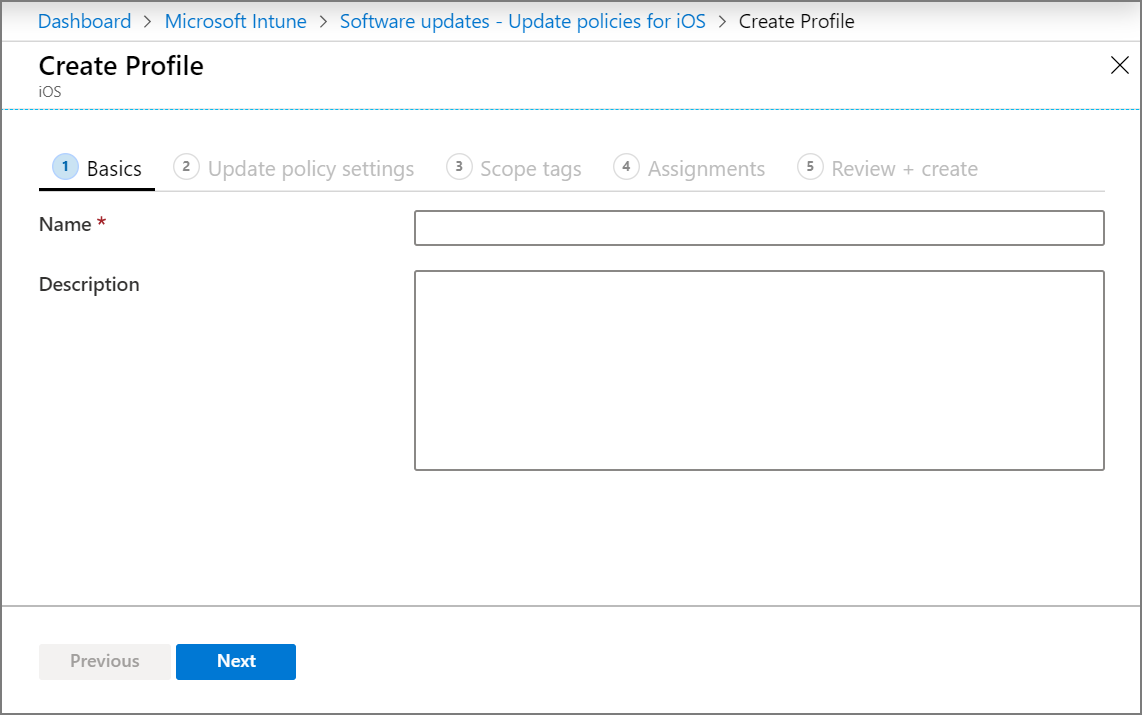
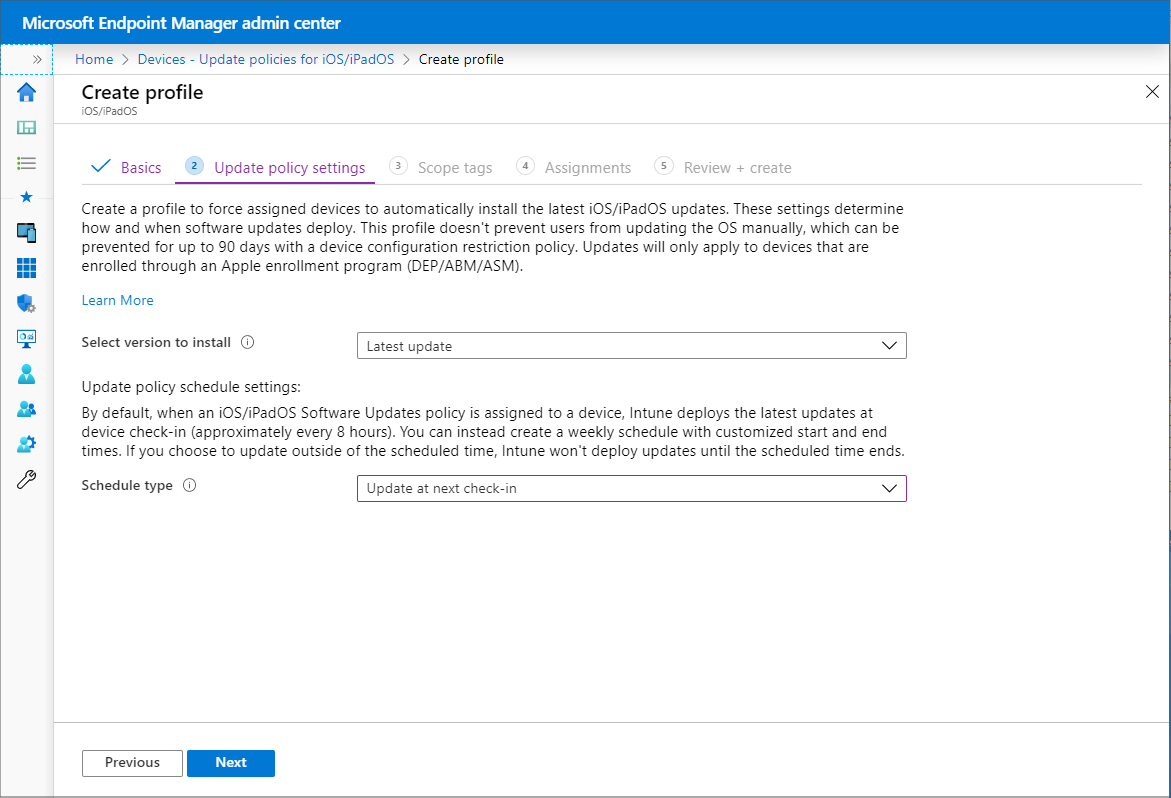
Content for 2002 iOS software updates

diff --git a/intune/protect/software-updates-ios.md b/intune/protect/software-updates-ios.md
@@ -7,7 +7,7 @@ keywords:
 author: brenduns 
 ms.author: brenduns
 manager: dougeby
-ms.date: 12/18/2019
+ms.date: 02/20/2020
 ms.topic: conceptual
 ms.service: microsoft-intune
 ms.subservice: protect
@@ -29,74 +29,91 @@ ms.collection: M365-identity-device-management
 
 # Add iOS/iPadOS software update policies in Intune
 
-Software update policies let you force supervised iOS/iPadOS devices to automatically install the latest available OS update. When configuring a policy, you can add the days and times when you don't want devices to install an update.
+Software update policies let you force supervised iOS/iPadOS devices to automatically install OS updates. Supervised devices are those that enrolled using either Apple Business Manager or Apple School Manager. When configuring a policy to deploy updates, you can:
+
+- Choose to deploy the *latest update* that’s available, or choose to deploy a an older update by the update version number if you don't want to deploy the latest update. If you choose to deploy an older update, you must also set a Device Configuration policy to restrict visibility of software updates.
+- Specify a schedule that determines when the update installs. Schedules can be as simple as installing updates the next time that the device checks in, or creating date and time ranges during which updates can install or are blocked from installing.
 
 This feature applies to:
 
 - iOS 10.3 and later (supervised)
 
-The device checks in with Intune about every 8 hours. If an update is available, the device downloads and  installs it, except during restricted times. Although the update process does not typically involve any user interaction, if the device has a passcode the user will be required to enter it in order to start a software update. This applies to iOS 10.3 and later versions. 
-The policy doesn't prevent a user from updating the OS manually.
+By default, devices check in with Intune about every 8 hours. If an update is available through an update policy, the device downloads the update. The device then installs the update upon next check in within your schedule configuration. Although the update process does not typically involve any user interaction, if the device has a passcode the user must enter it in order to start a software update. Profiles don't prevent users from updating the OS manually. Users can be prevented from updating the OS manually with a Device Configuration policy to restrict visibility of software updates.
 
 ## Configure the policy
 
 1. Sign in to the [Microsoft Endpoint Manager admin center](https://go.microsoft.com/fwlink/?linkid=2109431).
-2. Select **Devices** > **Update policies for iOS** > **Create**.
+2. Select **Devices** > **Update policies for iOS/iPadOS** > **Create profile**.
 3. On the **Basics** tab, specify a name for this policy, specify a description (optional), and then select **Next**.
 
-   ![Basics tab](./media/software-updates-ios/basics-tab.png) 
+   ![Basics tab](./media/software-updates-ios/basics-tab.png)
 
-4. On the **Update policy settings** tab, specify a restricted time frame when updates aren't forcibly installed.  
-   - Overnight blocks aren't supported and might not function. For example, don't configure a policy with a *Start time* of 8 PM and an *End time* of 6 AM.
-   - A policy that starts at 12 AM and ends at 12 AM is evaluated as 0 hours and not 24 hours. This configuration results in no restriction.
+4. On the **Update policy settings** tab, configure the following:
 
-   When setting the restricted timeframe, enter the following details:
+   1. **Select version to install**. You can choose from:
 
-   - **Days**: Choose the day(s) of week when updates aren't installed. For example, check Monday, Wednesday, and Friday to prevent updates from being installed on these days.
-   - **Time zone**: Choose a time zone.
-   - **Start time**: Choose the start time of the restricted time frame. For example, enter 5 AM so updates aren't installed starting at 5 AM.
-   - **End time**: Choose the end time of the restricted time frame. For example, enter 1 AM so updates can be installed starting at 1 AM.
-  
-   > [!IMPORTANT]  
-   > A policy that has a *Start time* and *End time* set to 12 AM is evaluated as 0 hours, and not 24 hours. This results in no restriction.  
-    
-   To delay the visibility of software updates for a specific amount of time on your supervised iOS/iPadOS devices, configure those settings in [Device Restrictions](../configuration/device-restrictions-ios.md#general). Software update policies override any device restrictions. When you set both a software update policy and restriction to delay visibility of software updates, the device forces a software update per the policy. The restriction applies so that users don't see the option to update the device themselves, and the update is pushed at the first time window as defined by your iOS update policy.
+      - *Latest update*: This deploys the most recently released update for iOS/iPadOS.
+      - Any previous version that is available in the dropdown box. If you select a previous version, you must also deploy a device configuration policy to delay visibility of software updates.
 
-   After configuring *Update policy settings*, select **Next**. 
+   2. **Schedule type**: Configure the schedule for this policy:
+
+      - *Update at next check-in*: The update installs on the device the next time it checks in with Intune. This is the simplest option and has no additional configurations.
+      - *Update during scheduled time*: You configure one or more windows of time during which the update will install upon check-in.
+      - *Update outside of scheduled time*: You configure one or more windows of time during which the updates won’t install upon check-in.
+
+   3. **Weekly schedule**: If you choose a schedule type other than *update at next check-in*, configure the following options:
+
+      ![Example of selecting to update during scheduled time](./media/software-updates-ios/scheduled-time.png)
+
+      - **Time zone**: Choose a time zone.
+      - **Time window**: Define one or more blocks of time that restrict when the updates install. The effect of the following options depends on the Schedule type you selected. By using a start day and end day, overnight blocks are supported. Options include:
+
+        - **Start day**: Choose the day on which the schedule window starts.
+        - **Start time**: Choose the time day when the schedule window begins. For example, if you select 5 AM and have a Schedule type of *Update during scheduled time*, 5 AM will be the time that updates can begin to install. If you chose a Schedule type of *Update outside of a scheduled time*, 5 AM will be the start of a period of time that updates can’t install.
+        - **End day**: Choose the day on which the schedule window ends.
+        - **End time**: Choose the time of day when the schedule window stops. For example, if you select 1 AM and have a Schedule type of *Update during scheduled time*, 1 AM will be the time that updates can no longer install. If you chose a Schedule type of *Update outside of a scheduled time*, 1 AM will be the start of a period of time that updates can install.
+
+       If you do not configure times to start or end, the configuration results in no restriction and updates can install at any time.  
+
+       > [!NOTE]
+       > To delay the visibility of software updates for a specific amount of time on your supervised iOS/iPadOS devices, configure those settings in [Device Restrictions](../configuration/device-restrictions-ios.md#general). Software update policies override any device restrictions. When you set both a software update policy and restriction to delay visibility of software updates, the device forces a software update per the policy. The restriction applies so that users don't see the option to update the device themselves, and the update is pushed as defined by your iOS update policy.
+
+   After configuring *Update policy settings*, select **Next**.
 
 5. On the **Scope tags** tab, select **+ Select scope tags** to open the *Select tags* pane if you want to apply them to the update policy.
-   
-   - On the **Select tags** pane, choose one or more tags, and then click **Select** to add them to the policy and return to the *Scope tags* pane.  
+
+   - On the **Select tags** pane, choose one or more tags, and then click **Select** to add them to the policy and return to the *Scope tags* pane.
 
    When ready, select **Next** to continue to *Assignments*.
 
-6. On the **Assignments** tab, choose **+ Select groups to include** and then assign the update policy to one or more groups. Use **+ Select groups to exclude** to fine-tune the assignment. When ready, select **Next** to continue. 
+6. On the **Assignments** tab, choose **+ Select groups to include** and then assign the update policy to one or more groups. Use **+ Select groups to exclude** to fine-tune the assignment. When ready, select **Next** to continue.
 
    The devices used by the users targeted by the policy are evaluated for update compliance. This policy also supports userless devices.
 
 7. On the **Review + create** tab, review the settings, and then select **Create** when ready to save your iOS/iPadOS update policy. Your new policy is displayed in the list of update policies for iOS.
 
-
 For guidance from the Intune support team, see [Delay visibility of software updates in Intune for supervised devices](https://techcommunity.microsoft.com/t5/Intune-Customer-Success/Delaying-visibility-of-software-updates-in-Intune-for-supervised/ba-p/345753).
 
 > [!NOTE]
-> Apple MDM doesn't allow you to force a device to install updates by a certain time or date.
+> Apple MDM doesn't allow you to force a device to install updates by a certain time or date. You can't use Intune software update policies to downgrade the OS version on a device.
 
 ## Edit a policy
+
 You can edit an existing policy, including changing the restricted times:
 
 1. Select **Devices** > **Update policies for iOS**. Select the policy you want to edit.
 
-2. While viewing the policies **Properties**, select **Edit** for the policy page you want to modify.  
-   ![Edit a policy](./media/software-updates-ios/edit-policy.png)   
+2. While viewing the policies **Properties**, select **Edit** for the policy page you want to modify.
 
-3. After introducing a change, select **Review + save** > **Save** to save your edits, and return to the policies *Properties*.  
- 
+   ![Edit a policy](./media/software-updates-ios/edit-policy.png)
+
+3. After introducing a change, select **Review + save** > **Save** to save your edits, and return to the policies *Properties*.
+
 > [!NOTE]
-> If the **Start time** and **End time** are both set to 12 AM, Intune does not check for restrictions on when to install updates. This means than any configurations you have for **Select times to prevent update installations** are ignored, and updates can install at any time.  
-
+> If the **Start time** and **End time** are both set to 12 AM, Intune does not check for restrictions on when to install updates. This means than any configurations you have for **Select times to prevent update installations** are ignored, and updates can install at any time.
 
 ## Monitor device installation failures
+
 <!-- 1352223 -->
 **Software updates** > **Installation failures for iOS devices** shows a list of supervised iOS/iPadOS devices targeted by an update policy, attempted an update, and couldn't be updated. For each device, you can view the status on why the device hasn't been automatically updated. Healthy, up-to-date devices aren't shown in the list. "Up-to-date" devices include the latest update that the device itself supports.
 
